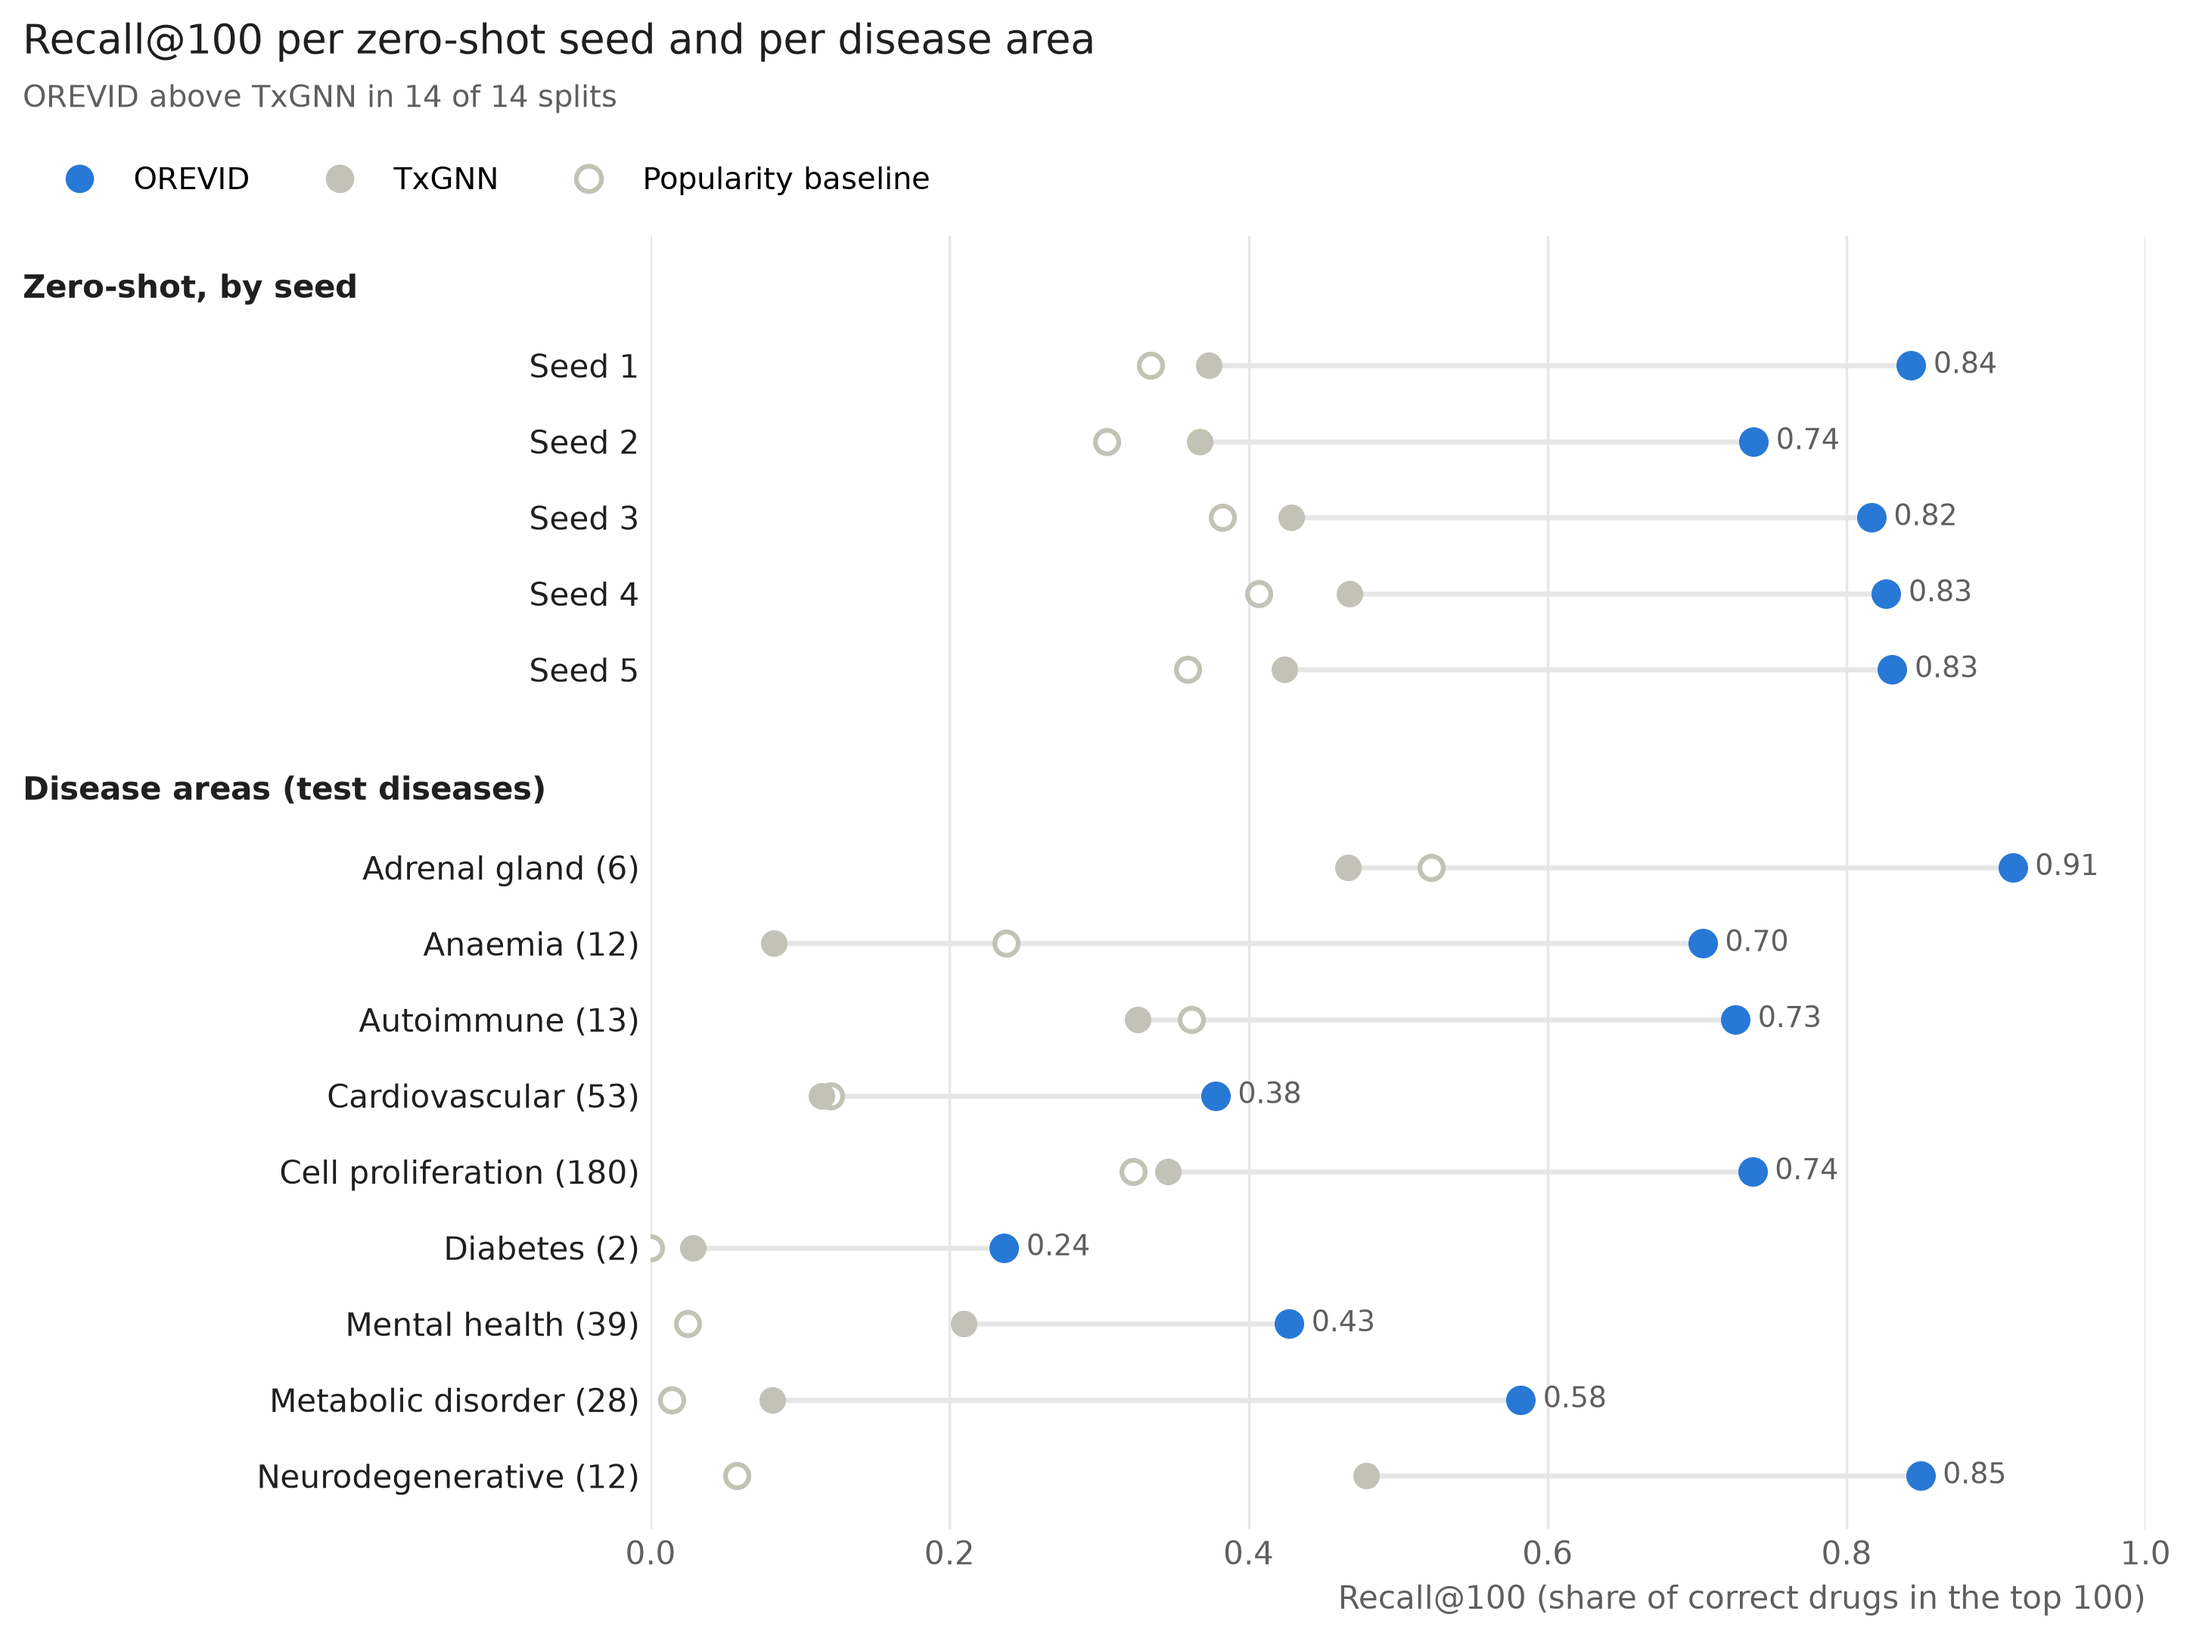
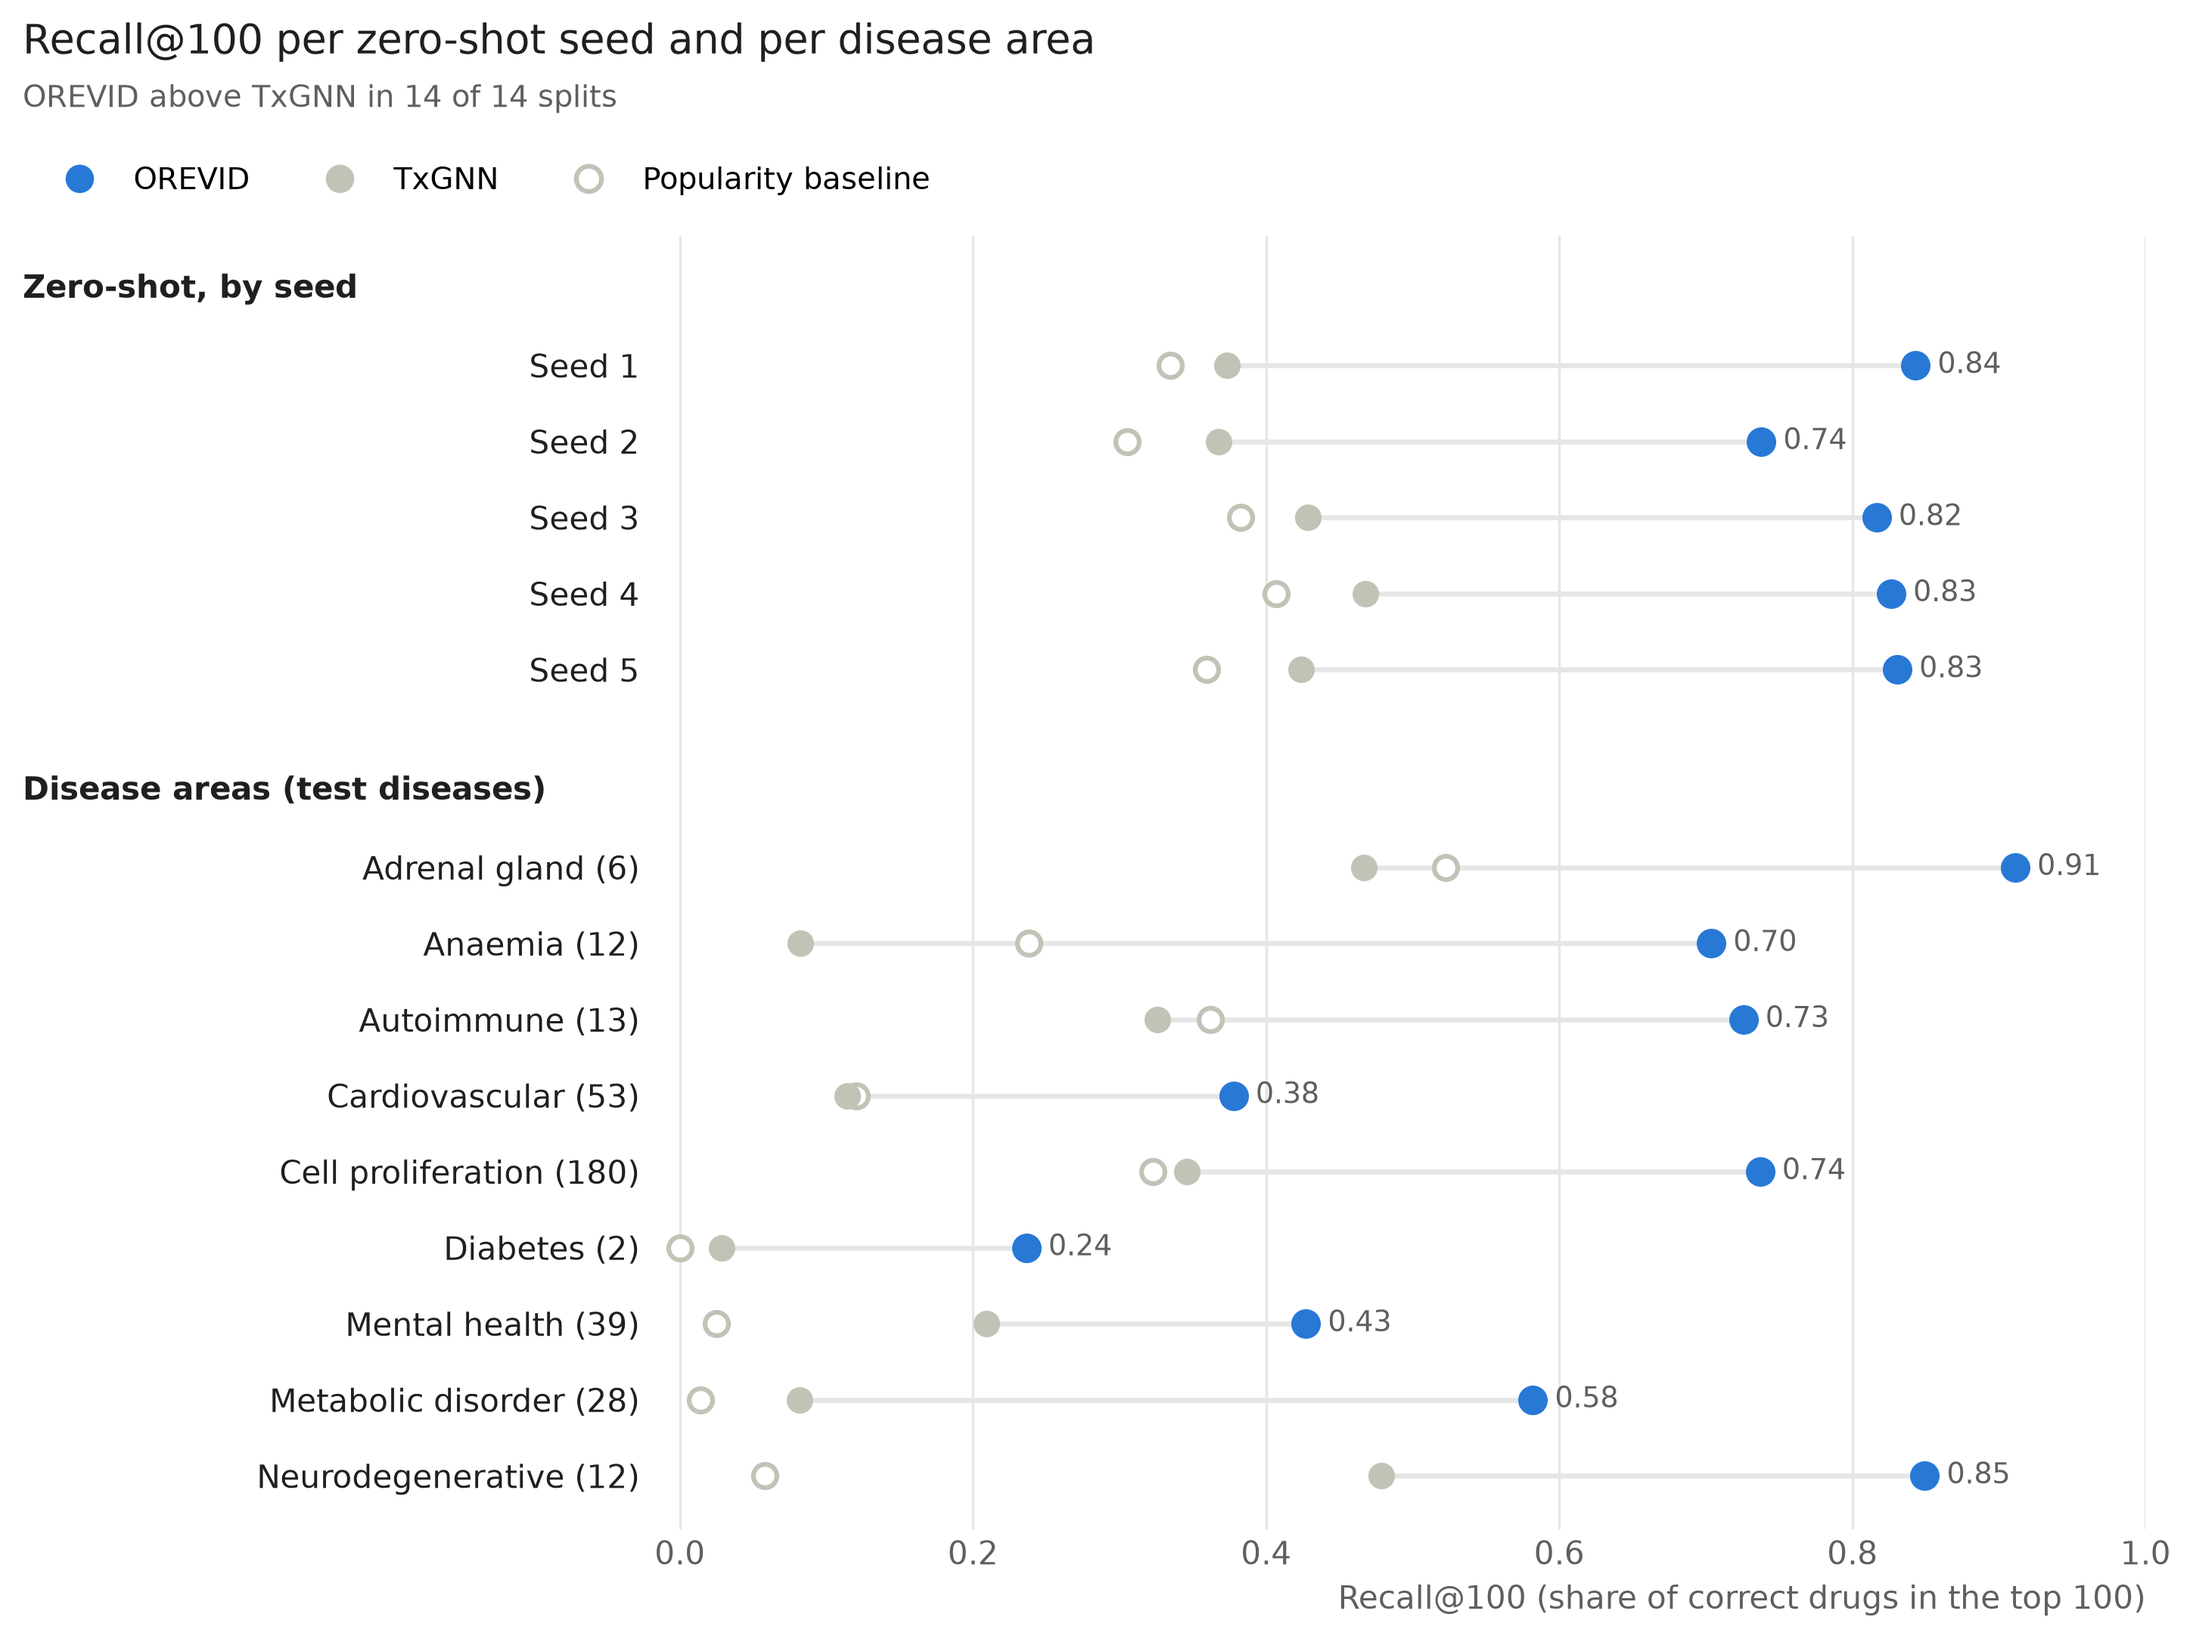
Figure 3: leave room left of 0 so the popularity point on Diabetes is not clipped

diff --git a/evaluation/figures.py b/evaluation/figures.py
@@ -164,7 +164,7 @@ def figure3():
         ax.scatter([o], [yy], s=70, color=BLUE, zorder=4)
         ax.text(o + 0.015, yy, f"{o:.2f}", va="center", fontsize=9, color=MUTED)
     ax.set_yticks(ys, labels)
-    ax.set_xlim(0, 1)
+    ax.set_xlim(-0.02, 1)  # room for a point at 0 (the popularity baseline on Diabetes), which the axes would clip
     ax.set_xlabel("Recall@100 (share of correct drugs in the top 100)", loc="right")
     ax.grid(axis="x", color=GRID, zorder=0)
     for s in ("top", "right", "left", "bottom"):
